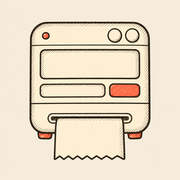
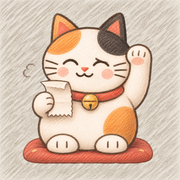
Add files via upload

diff --git a/index.html b/index.html
@@ -9,6 +9,7 @@
 <meta name="mobile-web-app-capable" content="yes">
 <meta name="apple-mobile-web-app-title" content="钱呢？">
 <meta name="theme-color" content="#F4EEE2">
+<meta name="build" content="2026-11-15-3">
 <link rel="apple-touch-icon" href="icon-180.png">
 <link rel="icon" href="icon-180.png">
 <link rel="manifest" href="manifest.webmanifest">
@@ -1017,6 +1018,16 @@ headEl.addEventListener("touchend",ev=>{
 },{passive:true});
 renderAll();
 initStore();
+</script>
+<script>
+/* 打开时去线上看一眼有没有新版，有就换成新版（不动 ledger-v1 里的账）。输入框里有字时不打断。 */
+(function(){
+  const cur=(document.querySelector('meta[name="build"]')||{}).content||"";
+  const chk=()=>{ const say=document.getElementById("say"); if(say&&say.value) return;
+    fetch("./?nc="+Date.now(),{cache:"no-store"}).then(r=>r.ok?r.text():"").then(t=>{ const m=t.match(/name="build" content="([^"]+)"/);
+      if(m&&m[1]!==cur&&sessionStorage.getItem("upd")!==m[1]){ sessionStorage.setItem("upd",m[1]); location.replace("./?b="+encodeURIComponent(m[1])+location.hash); } }).catch(()=>{}); };
+  chk(); document.addEventListener("visibilitychange",()=>{ if(!document.hidden) chk(); });
+})();
 </script>
 </body>
 </html>
